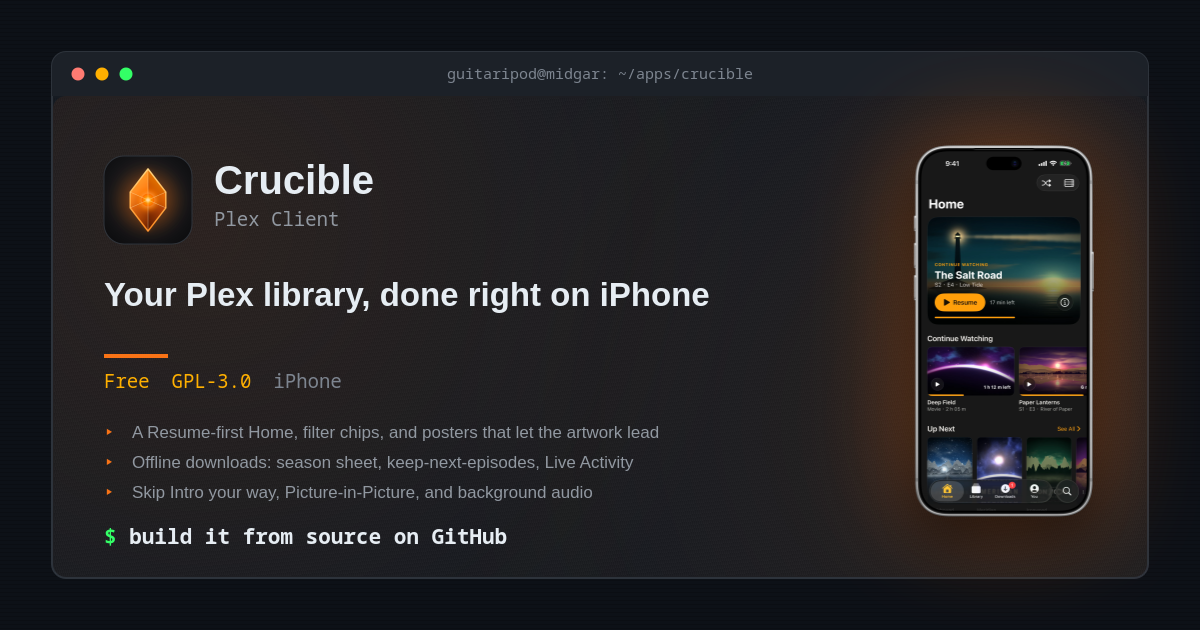
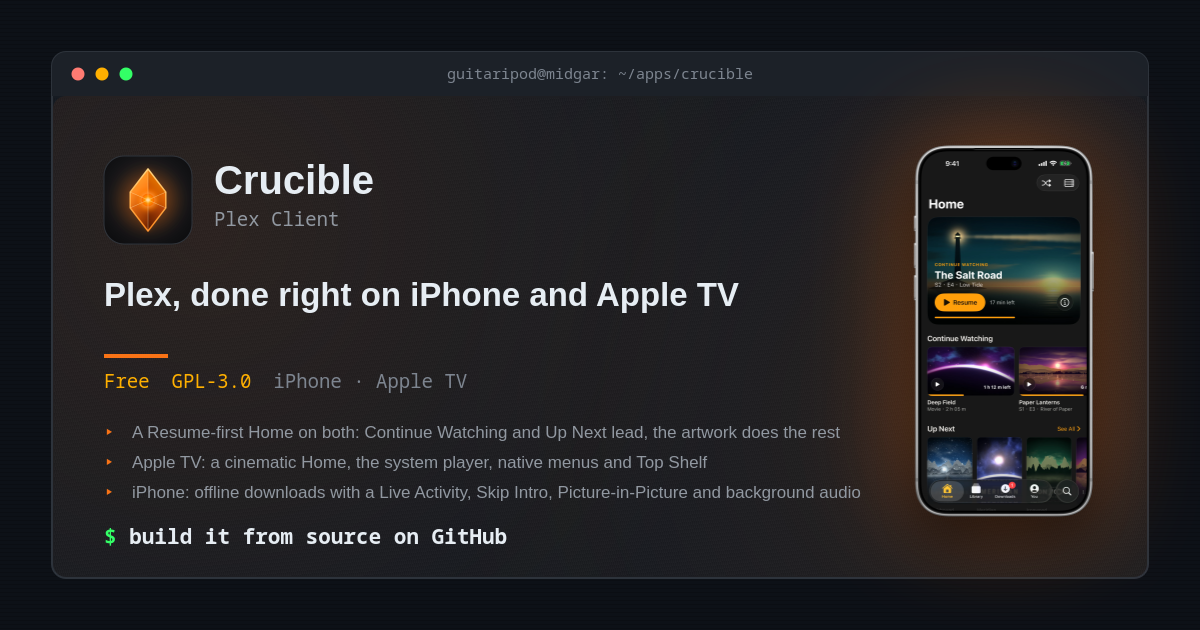
crucible 2.1.0: the page covers the Apple TV app, with a hero that pairs the TV and the phone, an Apple TV gallery of eight 4K captures with native menus and the player, an Apple TV install step and FAQ entries, plus heroImage, installCta and requires as optional page keys

diff --git a/tests/unit/screenshot-variants.test.ts b/tests/unit/screenshot-variants.test.ts
@@ -42,6 +42,23 @@ describe('screenshot variant manifest', () => {
     expect(missing).toEqual([]);
   });
 
+  it('has a file behind every landing hero image and each of its variants', () => {
+    const landingDir = path.join(process.cwd(), 'src', 'data', 'landing');
+    const missing = fs
+      .readdirSync(landingDir)
+      .filter((name) => name.endsWith('.json'))
+      .flatMap((name) => {
+        const hero = JSON.parse(fs.readFileSync(path.join(landingDir, name), 'utf8')).heroImage as
+          | { src: string }
+          | undefined;
+        if (!hero) return [];
+        return [hero.src, ...(variants[hero.src] ?? []).map((w) => variantSrc(hero.src, w))].filter(
+          (file) => !onDisk(file)
+        );
+      });
+    expect(missing).toEqual([]);
+  });
+
   it('covers every app icon, so no landing page ships a 512px icon at 72px', () => {
     const uncovered = apps
       .filter((a) => a.iconLocal && onDisk(a.iconLocal))

diff --git a/src/data/landing.ts b/src/data/landing.ts
@@ -103,6 +103,16 @@ export interface Install {
   guideUrl?: string;
 }
 
+/// A pre-composed hero picture (several devices in one transparent image) that
+/// replaces the single-device hero shot; its downscales come from the screenshot
+/// variant manifest like every other committed screenshot.
+export interface HeroImage {
+  src: string;
+  w: number;
+  h: number;
+  alt: string;
+}
+
 export interface LandingContent {
   seoTitle: string;
   metaDescription: string;
@@ -126,6 +136,9 @@ export interface LandingContent {
   hideAbout?: boolean;
   install?: Install;
   macAppStoreUrl?: string;
+  heroImage?: HeroImage;
+  installCta?: string;
+  requires?: string;
 }
 
 export type LandingApp = LandingFacts & { content: LandingContent };
